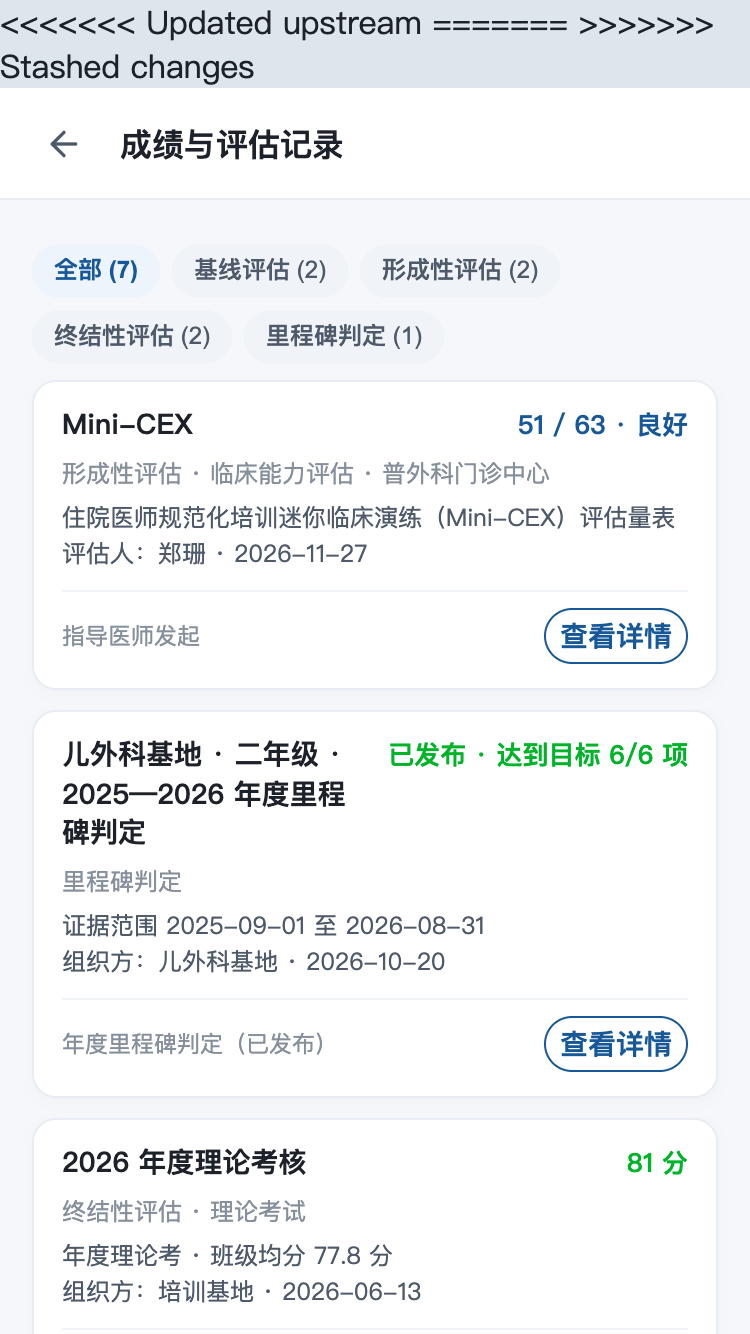
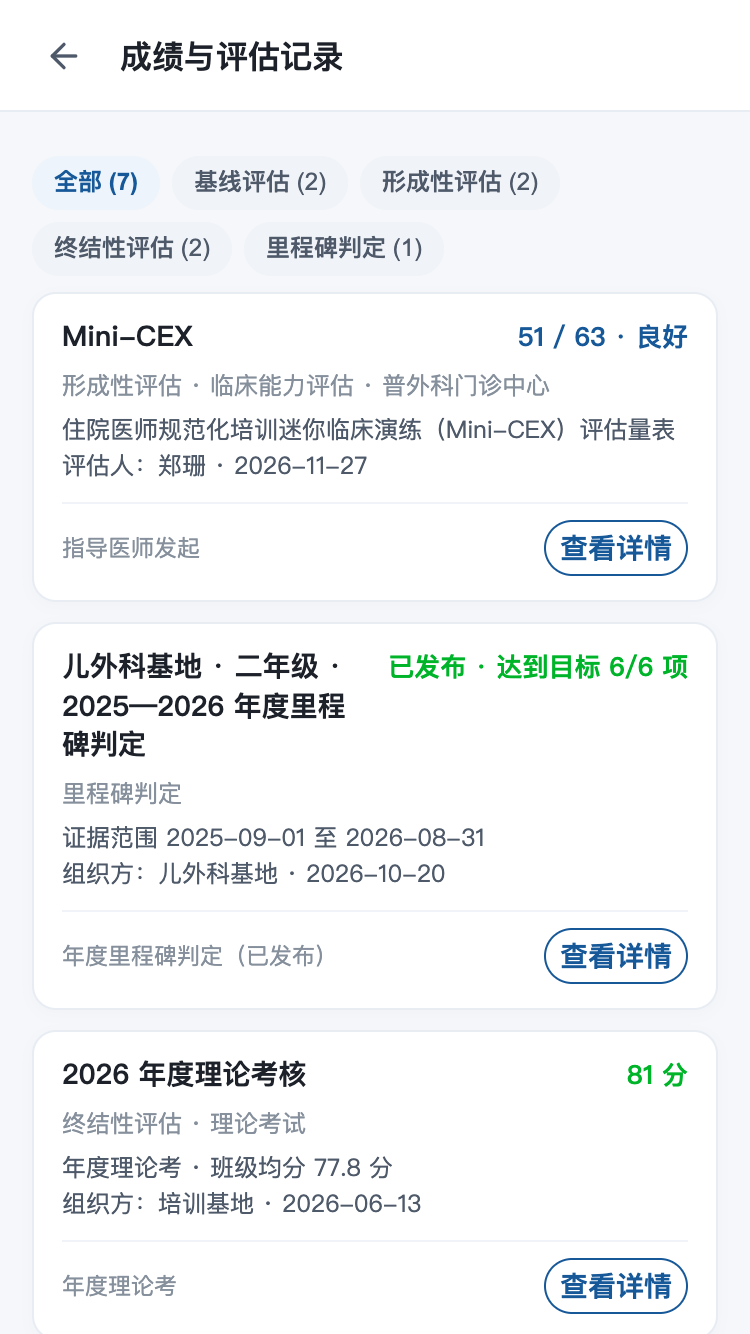
docs: 同步 2026-11-27 移动端学员端去KPI与教师端评估入口迁移留痕至专用库

diff --git a/修改前后对比-全量单文件汇总.html b/修改前后对比-全量单文件汇总.html
@@ -164,11 +164,11 @@ body.mode-stacked .pair-grid, body.mode-stacked .pair, body.mode-stacked .compar
       </div>
       <div class="m-card">
         <div class="m-label">全量修改与对比项</div>
-        <div class="m-val">87<span class="m-unit">项</span></div>
+        <div class="m-val">89<span class="m-unit">项</span></div>
       </div>
       <div class="m-card">
         <div class="m-label">对比留痕截图总数</div>
-        <div class="m-val">323<span class="m-unit">张</span></div>
+        <div class="m-val">328<span class="m-unit">张</span></div>
       </div>
       <div class="m-card">
         <div class="m-label">最新更新日期</div>
@@ -182,8 +182,8 @@ body.mode-stacked .pair-grid, body.mode-stacked .pair, body.mode-stacked .compar
   <div class="toolbar-inner">
     <div class="filter-group" id="dateFilters">
       <span class="filter-label">日期：</span>
-      <button class="chip active" data-date="all">全部日期 (87)</button>
-      <button class="chip" data-date="2026-11-27">2026-11-27 (最新 · 9项)</button>
+      <button class="chip active" data-date="all">全部日期 (89)</button>
+      <button class="chip" data-date="2026-11-27">2026-11-27 (最新 · 11项)</button>
       <button class="chip" data-date="2026-11-26">2026-11-26 (1项)</button>
       <button class="chip" data-date="2026-11-23">2026-11-23 (7项)</button>
       <button class="chip" data-date="2026-11-17">2026-11-17 (3项)</button>
@@ -208,12 +208,95 @@ body.mode-stacked .pair-grid, body.mode-stacked .pair, body.mode-stacked .compar
         <button class="view-btn active" id="btnSideBySide" title="左右并排对比">并排对比</button>
         <button class="view-btn" id="btnStacked" title="上下堆叠展示">单栏聚焦</button>
       </div>
-      <div class="stat-pill" id="counterPill">显示 87 / 87 项</div>
+      <div class="stat-pill" id="counterPill">显示 89 / 89 项</div>
     </div>
   </div>
 </div>
 
 <main id="mainContainer">
+
+<article class="item-card" id="2026-11-27-sec-11" data-date="2026-11-27" data-scope="移动端" data-search="移动端 教师端 评估任务 表单开发任务 委员会工作 全部服务 带教与评价 tdesign-app.js">
+  <div class="item-header">
+    <div class="item-title-wrap">
+      <div class="badge-row">
+        <span class="badge-num">#11</span>
+        <span class="badge-date">2026-11-27</span>
+        <span class="badge-scope">移动端</span>
+      </div>
+      <h2 class="item-title">11. 移动端教师端 ·「表单开发任务」与「委员会工作」迁入工作台全部服务（非委员隐藏）</h2>
+      <div class="item-meta"><strong>定位路径</strong>：<code>移动端/teacher-tdesign.html</code> → 底部「评估」Tab &amp; 首页「全部服务 › 带教与评价」<br>
+      <strong>核心文件</strong>：<code>移动端/shared/tdesign-app.js</code></div>
+    </div>
+  </div>
+  <div class="item-body">
+    <div class="pair-grid">
+      <div class="pair-col">
+        <div class="col-header"><span class="tag-badge before">修改前</span> 存在问题</div>
+        <ul class="desc-list">
+          <li>「评估」Tab 顶部堆叠「评估任务 / 表单开发任务 / 委员会工作」三段切换，与下方双 Tab 嵌套冗余。</li>
+        </ul>
+        <div class="img-wrap">
+          <img loading="lazy" src="2026-11-27-对比截图/移动端教师端-评估入口迁移-修改前.jpg" alt="移动端教师端-修改前" data-cap="2026-11-27 #11 修改前 · 评估 Tab 顶部分段栏">
+          <div class="img-caption"><span>修改前 · 评估 Tab 顶部三段切换</span><span>375×667</span></div>
+        </div>
+      </div>
+      <div class="pair-col">
+        <div class="col-header"><span class="tag-badge after">修改后</span> 改动亮点</div>
+        <ul class="desc-list">
+          <li>「评估」Tab 仅保留纯粹的「待我评估 / 待他人评估」任务列表。</li>
+          <li>「表单开发任务」「委员会工作」迁入「全部服务 › 带教与评价」独立二级页；非评估委员会成员直接隐藏「委员会工作」入口。</li>
+        </ul>
+        <div class="img-wrap">
+          <img loading="lazy" src="2026-11-27-对比截图/移动端教师端-评估Tab纯净态-修改后.png" alt="移动端教师端-评估Tab纯净态-修改后" data-cap="2026-11-27 #11 修改后 · 评估 Tab 纯净态">
+          <div class="img-caption"><span>修改后 · 评估 Tab 纯净态</span><span>375×667</span></div>
+        </div>
+        <div class="img-wrap">
+          <img loading="lazy" src="2026-11-27-对比截图/移动端教师端-工作台全部服务入口-修改后.png" alt="移动端教师端-工作台全部服务入口-修改后" data-cap="2026-11-27 #11 修改后 · 全部服务带教与评价入口">
+          <div class="img-caption"><span>修改后 · 全部服务 › 带教与评价入口</span><span>375×667</span></div>
+        </div>
+      </div>
+    </div>
+  </div>
+</article>
+
+<article class="item-card" id="2026-11-27-sec-10" data-date="2026-11-27" data-scope="移动端" data-search="移动端 学员端 成绩与评估记录 去KPI 冗余卡片 tdesign-app.js">
+  <div class="item-header">
+    <div class="item-title-wrap">
+      <div class="badge-row">
+        <span class="badge-num">#10</span>
+        <span class="badge-date">2026-11-27</span>
+        <span class="badge-scope">移动端</span>
+      </div>
+      <h2 class="item-title">10. 移动端学员端 ·「成绩与评估记录」移除顶部 3 张冗余汇总 KPI 卡</h2>
+      <div class="item-meta"><strong>定位路径</strong>：<code>移动端/student-tdesign.html</code> → 首页常用服务「成绩与评估记录」<br>
+      <strong>核心文件</strong>：<code>移动端/shared/tdesign-app.js</code></div>
+    </div>
+  </div>
+  <div class="item-body">
+    <div class="pair-grid">
+      <div class="pair-col">
+        <div class="col-header"><span class="tag-badge before">修改前</span> 存在问题</div>
+        <ul class="desc-list">
+          <li>顶部 3 张 KPI 卡与下方 5 阶段计数胶囊信息重复，挤压首屏记录列表。</li>
+        </ul>
+        <div class="img-wrap">
+          <img loading="lazy" src="2026-11-27-对比截图/移动端学员端-成绩与评估记录去KPI-修改前.jpg" alt="移动端学员端-成绩与评估记录去KPI-修改前" data-cap="2026-11-27 #10 修改前 · 顶部红框 3 张冗余 KPI 卡">
+          <div class="img-caption"><span>修改前 · 顶部 3 张冗余汇总卡</span><span>375×667</span></div>
+        </div>
+      </div>
+      <div class="pair-col">
+        <div class="col-header"><span class="tag-badge after">修改后</span> 改动亮点</div>
+        <ul class="desc-list">
+          <li>删除顶部 <code>.stu-record-kpis</code>，由 5 阶段计数胶囊直接衔接评估记录卡片。</li>
+        </ul>
+        <div class="img-wrap">
+          <img loading="lazy" src="2026-11-27-对比截图/移动端学员端-成绩与评估记录去KPI-修改后.png" alt="移动端学员端-成绩与评估记录去KPI-修改后" data-cap="2026-11-27 #10 修改后 · 移除冗余 KPI 卡">
+          <div class="img-caption"><span>修改后 · 精简首屏结构</span><span>375×667</span></div>
+        </div>
+      </div>
+    </div>
+  </div>
+</article>
 
 <article class="item-card" id="2026-11-27-sec-09" data-date="2026-11-27" data-scope="PC端" data-search="电子班牌 最终稿 本周课表 抽屉 流体玻璃 3D头像 极简克制 医院深蓝 呼吸灯 闪白 需求规格说明">
   <div class="item-head"><span class="date-badge">2026-11-27</span><span class="scope-tag">PC端</span><h3>电子班牌最终稿 · 「本周课表」抽屉极简流体玻璃 + 3D 头像视觉升级</h3></div>

diff --git a/修改前后对比.html b/修改前后对比.html
@@ -164,11 +164,11 @@ body.mode-stacked .pair-grid, body.mode-stacked .pair, body.mode-stacked .compar
       </div>
       <div class="m-card">
         <div class="m-label">全量修改与对比项</div>
-        <div class="m-val">87<span class="m-unit">项</span></div>
+        <div class="m-val">89<span class="m-unit">项</span></div>
       </div>
       <div class="m-card">
         <div class="m-label">对比留痕截图总数</div>
-        <div class="m-val">323<span class="m-unit">张</span></div>
+        <div class="m-val">328<span class="m-unit">张</span></div>
       </div>
       <div class="m-card">
         <div class="m-label">最新更新日期</div>
@@ -182,8 +182,8 @@ body.mode-stacked .pair-grid, body.mode-stacked .pair, body.mode-stacked .compar
   <div class="toolbar-inner">
     <div class="filter-group" id="dateFilters">
       <span class="filter-label">日期：</span>
-      <button class="chip active" data-date="all">全部日期 (87)</button>
-      <button class="chip" data-date="2026-11-27">2026-11-27 (最新 · 9项)</button>
+      <button class="chip active" data-date="all">全部日期 (89)</button>
+      <button class="chip" data-date="2026-11-27">2026-11-27 (最新 · 11项)</button>
       <button class="chip" data-date="2026-11-26">2026-11-26 (1项)</button>
       <button class="chip" data-date="2026-11-23">2026-11-23 (7项)</button>
       <button class="chip" data-date="2026-11-17">2026-11-17 (3项)</button>
@@ -208,12 +208,95 @@ body.mode-stacked .pair-grid, body.mode-stacked .pair, body.mode-stacked .compar
         <button class="view-btn active" id="btnSideBySide" title="左右并排对比">并排对比</button>
         <button class="view-btn" id="btnStacked" title="上下堆叠展示">单栏聚焦</button>
       </div>
-      <div class="stat-pill" id="counterPill">显示 87 / 87 项</div>
+      <div class="stat-pill" id="counterPill">显示 89 / 89 项</div>
     </div>
   </div>
 </div>
 
 <main id="mainContainer">
+
+<article class="item-card" id="2026-11-27-sec-11" data-date="2026-11-27" data-scope="移动端" data-search="移动端 教师端 评估任务 表单开发任务 委员会工作 全部服务 带教与评价 tdesign-app.js">
+  <div class="item-header">
+    <div class="item-title-wrap">
+      <div class="badge-row">
+        <span class="badge-num">#11</span>
+        <span class="badge-date">2026-11-27</span>
+        <span class="badge-scope">移动端</span>
+      </div>
+      <h2 class="item-title">11. 移动端教师端 ·「表单开发任务」与「委员会工作」迁入工作台全部服务（非委员隐藏）</h2>
+      <div class="item-meta"><strong>定位路径</strong>：<code>移动端/teacher-tdesign.html</code> → 底部「评估」Tab &amp; 首页「全部服务 › 带教与评价」<br>
+      <strong>核心文件</strong>：<code>移动端/shared/tdesign-app.js</code></div>
+    </div>
+  </div>
+  <div class="item-body">
+    <div class="pair-grid">
+      <div class="pair-col">
+        <div class="col-header"><span class="tag-badge before">修改前</span> 存在问题</div>
+        <ul class="desc-list">
+          <li>「评估」Tab 顶部堆叠「评估任务 / 表单开发任务 / 委员会工作」三段切换，与下方双 Tab 嵌套冗余。</li>
+        </ul>
+        <div class="img-wrap">
+          <img loading="lazy" src="2026-11-27-对比截图/移动端教师端-评估入口迁移-修改前.jpg" alt="移动端教师端-修改前" data-cap="2026-11-27 #11 修改前 · 评估 Tab 顶部分段栏">
+          <div class="img-caption"><span>修改前 · 评估 Tab 顶部三段切换</span><span>375×667</span></div>
+        </div>
+      </div>
+      <div class="pair-col">
+        <div class="col-header"><span class="tag-badge after">修改后</span> 改动亮点</div>
+        <ul class="desc-list">
+          <li>「评估」Tab 仅保留纯粹的「待我评估 / 待他人评估」任务列表。</li>
+          <li>「表单开发任务」「委员会工作」迁入「全部服务 › 带教与评价」独立二级页；非评估委员会成员直接隐藏「委员会工作」入口。</li>
+        </ul>
+        <div class="img-wrap">
+          <img loading="lazy" src="2026-11-27-对比截图/移动端教师端-评估Tab纯净态-修改后.png" alt="移动端教师端-评估Tab纯净态-修改后" data-cap="2026-11-27 #11 修改后 · 评估 Tab 纯净态">
+          <div class="img-caption"><span>修改后 · 评估 Tab 纯净态</span><span>375×667</span></div>
+        </div>
+        <div class="img-wrap">
+          <img loading="lazy" src="2026-11-27-对比截图/移动端教师端-工作台全部服务入口-修改后.png" alt="移动端教师端-工作台全部服务入口-修改后" data-cap="2026-11-27 #11 修改后 · 全部服务带教与评价入口">
+          <div class="img-caption"><span>修改后 · 全部服务 › 带教与评价入口</span><span>375×667</span></div>
+        </div>
+      </div>
+    </div>
+  </div>
+</article>
+
+<article class="item-card" id="2026-11-27-sec-10" data-date="2026-11-27" data-scope="移动端" data-search="移动端 学员端 成绩与评估记录 去KPI 冗余卡片 tdesign-app.js">
+  <div class="item-header">
+    <div class="item-title-wrap">
+      <div class="badge-row">
+        <span class="badge-num">#10</span>
+        <span class="badge-date">2026-11-27</span>
+        <span class="badge-scope">移动端</span>
+      </div>
+      <h2 class="item-title">10. 移动端学员端 ·「成绩与评估记录」移除顶部 3 张冗余汇总 KPI 卡</h2>
+      <div class="item-meta"><strong>定位路径</strong>：<code>移动端/student-tdesign.html</code> → 首页常用服务「成绩与评估记录」<br>
+      <strong>核心文件</strong>：<code>移动端/shared/tdesign-app.js</code></div>
+    </div>
+  </div>
+  <div class="item-body">
+    <div class="pair-grid">
+      <div class="pair-col">
+        <div class="col-header"><span class="tag-badge before">修改前</span> 存在问题</div>
+        <ul class="desc-list">
+          <li>顶部 3 张 KPI 卡与下方 5 阶段计数胶囊信息重复，挤压首屏记录列表。</li>
+        </ul>
+        <div class="img-wrap">
+          <img loading="lazy" src="2026-11-27-对比截图/移动端学员端-成绩与评估记录去KPI-修改前.jpg" alt="移动端学员端-成绩与评估记录去KPI-修改前" data-cap="2026-11-27 #10 修改前 · 顶部红框 3 张冗余 KPI 卡">
+          <div class="img-caption"><span>修改前 · 顶部 3 张冗余汇总卡</span><span>375×667</span></div>
+        </div>
+      </div>
+      <div class="pair-col">
+        <div class="col-header"><span class="tag-badge after">修改后</span> 改动亮点</div>
+        <ul class="desc-list">
+          <li>删除顶部 <code>.stu-record-kpis</code>，由 5 阶段计数胶囊直接衔接评估记录卡片。</li>
+        </ul>
+        <div class="img-wrap">
+          <img loading="lazy" src="2026-11-27-对比截图/移动端学员端-成绩与评估记录去KPI-修改后.png" alt="移动端学员端-成绩与评估记录去KPI-修改后" data-cap="2026-11-27 #10 修改后 · 移除冗余 KPI 卡">
+          <div class="img-caption"><span>修改后 · 精简首屏结构</span><span>375×667</span></div>
+        </div>
+      </div>
+    </div>
+  </div>
+</article>
 
 <article class="item-card" id="2026-11-27-sec-09" data-date="2026-11-27" data-scope="PC端" data-search="电子班牌 最终稿 本周课表 抽屉 流体玻璃 3D头像 极简克制 医院深蓝 呼吸灯 闪白 需求规格说明">
   <div class="item-head"><span class="date-badge">2026-11-27</span><span class="scope-tag">PC端</span><h3>电子班牌最终稿 · 「本周课表」抽屉极简流体玻璃 + 3D 头像视觉升级</h3></div>

diff --git a/2026-11-27-修改前后对比.html b/2026-11-27-修改前后对比.html
@@ -44,7 +44,7 @@
 <header>
   <div style="margin-bottom:8px"><a href="index.html" style="color:#d0e7ff;font-size:13px;text-decoration:none;display:inline-flex;align-items:center;gap:4px">← 返回留痕总览（所有日期清单）</a></div>
   <h1>2026-11-27 · 修改前后对比</h1>
-  <div class="sub">共 <span id="index-total-count">8</span> 项修改记录 · 31 张真实入口截图 · PC 端 1440×900 / 移动端 375×812 · 点击顶部总清单锚点快速跳转至对应详情</div>
+  <div class="sub">共 <span id="index-total-count">11</span> 项修改记录 · 39 张真实入口截图 · PC 端 1440×900 / 移动端 375×812 · 点击顶部总清单锚点快速跳转至对应详情</div>
 </header>
 <main>
   <section id="change-index">
@@ -135,6 +135,20 @@
           <td><span class="scope-tag">PC端</span></td>
           <td>15.6" 电子班牌（<code>pages/电子班牌/index.html</code> → 本周课表上拉抽屉）</td>
           <td><a href="../../pages/电子班牌/index.html">index.html</a> + <a href="../../pages/电子班牌/电子班牌-需求规格说明.md">需求规格说明.md</a> · 图文对比（3 张）</td>
+        </tr>
+        <tr data-scope="移动端">
+          <td>10</td>
+          <td><a href="#sec-10"><strong>移动端学员端 ·「成绩与评估记录」移除顶部 3 张冗余汇总 KPI 卡</strong></a></td>
+          <td><span class="scope-tag">移动端</span></td>
+          <td><code>移动端/student-tdesign.html</code> → 首页常用服务「成绩与评估记录」</td>
+          <td><a href="../../移动端/shared/tdesign-app.js">tdesign-app.js</a> · 图文对比（2 张）</td>
+        </tr>
+        <tr data-scope="移动端">
+          <td>11</td>
+          <td><a href="#sec-11"><strong>移动端教师端 ·「表单开发任务」与「委员会工作」迁入工作台全部服务（非委员隐藏）</strong></a></td>
+          <td><span class="scope-tag">移动端</span></td>
+          <td><code>移动端/teacher-tdesign.html</code> → 底部「评估」Tab & 首页「全部服务 › 带教与评价」</td>
+          <td><a href="../../移动端/shared/tdesign-app.js">tdesign-app.js</a> · 图文对比（3 张）</td>
         </tr>
       </tbody>
     </table>
@@ -453,6 +467,58 @@
         </ul>
         <a href="2026-11-27-对比截图/电子班牌-周课表抽屉-修改后.png" target="_blank"><img alt="修改后：极昼浅色流体玻璃周课表抽屉与3D医生头像" src="2026-11-27-对比截图/电子班牌-周课表抽屉-修改后.png"></a>
         <a href="2026-11-27-对比截图/电子班牌-周课表抽屉-医院深蓝-修改后.png" target="_blank" style="display:block;margin-top:12px;"><img alt="修改后：复旦医院深蓝主题下的周课表抽屉" src="2026-11-27-对比截图/电子班牌-周课表抽屉-医院深蓝-修改后.png"></a>
+      </div>
+    </div>
+  </section>
+
+  <section id="sec-10">
+    <h2>移动端学员端 ·「成绩与评估记录」移除顶部 3 张冗余汇总 KPI 卡</h2>
+    <p>定位：<code>移动端/student-tdesign.html</code> → 首页常用服务「成绩与评估记录」。修改文件：<a href="../../移动端/shared/tdesign-app.js">移动端/shared/tdesign-app.js</a>。</p>
+    <div class="pair">
+      <div>
+        <h3>修改前 · 存在问题</h3>
+        <ul>
+          <li><strong>数字信息重复</strong>：页面顶部展示「7 全部结果 / 4 基线与形成性 / 3 终结与里程碑」3 张 KPI 卡片，与下方紧邻的「全部(7) / 基线评估(2) / 形成性评估(2) / 终结性评估(2) / 里程碑判定(1)」计数胶囊完全重复，挤压首屏列表展示空间。</li>
+        </ul>
+        <a href="2026-11-27-对比截图/移动端学员端-成绩与评估记录去KPI-修改前.jpg" target="_blank"><img alt="修改前：成绩与评估记录顶部红框 3 张 KPI 卡" src="2026-11-27-对比截图/移动端学员端-成绩与评估记录去KPI-修改前.jpg"></a>
+      </div>
+      <div>
+        <h3>修改后 · 改动说明</h3>
+        <ul>
+          <li><strong>精简首屏结构</strong>：移除顶部 <code>.stu-record-kpis</code> 三卡区块，进入二级页后直接由 5 阶段计数胶囊衔接评估记录卡片，首屏多出完整一张成绩卡可视区。</li>
+        </ul>
+        <a href="2026-11-27-对比截图/移动端学员端-成绩与评估记录去KPI-修改后.png" target="_blank"><img class="mobile-shot" alt="修改后：成绩与评估记录去除冗余 KPI 卡" src="2026-11-27-对比截图/移动端学员端-成绩与评估记录去KPI-修改后.png"></a>
+      </div>
+    </div>
+  </section>
+
+  <section id="sec-11">
+    <h2>移动端教师端 ·「表单开发任务」与「委员会工作」迁入工作台全部服务（非委员隐藏）</h2>
+    <p>定位：<code>移动端/teacher-tdesign.html</code> → 底部「评估」Tab &amp; 首页「全部服务 › 带教与评价」。修改文件：<a href="../../移动端/shared/tdesign-app.js">移动端/shared/tdesign-app.js</a>。</p>
+    <div class="pair">
+      <div>
+        <h3>修改前 · 存在问题</h3>
+        <ul>
+          <li><strong>评估 Tab 顶栏过重</strong>：「评估」Tab 顶部堆叠「评估任务 / 表单开发任务 / 委员会工作」三段切换，与下方「待我评估 / 待他人评估」双层页签嵌套，视觉冗余。</li>
+        </ul>
+        <a href="2026-11-27-对比截图/移动端教师端-评估入口迁移-修改前.jpg" target="_blank"><img class="mobile-shot" alt="修改前：教师端评估 Tab 顶部分段栏" src="2026-11-27-对比截图/移动端教师端-评估入口迁移-修改前.jpg"></a>
+      </div>
+      <div>
+        <h3>修改后 · 改动说明</h3>
+        <ul>
+          <li><strong>评估 Tab 纯净回归</strong>：移除顶部三段切换，「评估」Tab 只保留纯粹的「待我评估 / 待他人评估」与状态筛选。</li>
+          <li><strong>全部服务承接与权限隐藏</strong>：将「表单开发任务」「委员会工作」直接排入工作台「全部服务 › 带教与评价」并打开独立二级页；当教师非评估委员会成员（<code>isCommitteeMember = false</code>）时，直接隐藏「委员会工作」入口。</li>
+        </ul>
+        <div class="mobile-grid">
+          <div>
+            <h4>改后 · 评估 Tab 纯净态</h4>
+            <a href="2026-11-27-对比截图/移动端教师端-评估Tab纯净态-修改后.png" target="_blank"><img alt="修改后：教师端评估 Tab 纯净态" src="2026-11-27-对比截图/移动端教师端-评估Tab纯净态-修改后.png"></a>
+          </div>
+          <div>
+            <h4>改后 · 全部服务 › 带教与评价入口</h4>
+            <a href="2026-11-27-对比截图/移动端教师端-工作台全部服务入口-修改后.png" target="_blank"><img alt="修改后：教师端全部服务新增表单开发任务与委员会工作" src="2026-11-27-对比截图/移动端教师端-工作台全部服务入口-修改后.png"></a>
+          </div>
+        </div>
       </div>
     </div>
   </section>

diff --git a/index.html b/index.html
@@ -135,7 +135,7 @@
       </div>
       <div class="metric-card" style="background:#ffffff;border:none;box-shadow:0 4px 12px rgba(0,0,0,0.12)">
         <div class="metric-label" style="color:#175898;font-weight:600">⚡ 全量聚合模式</div>
-        <a href="修改前后对比.html" style="color:#175898;font-weight:700;text-decoration:none;font-size:14px;display:inline-flex;align-items:center;gap:4px;margin-top:2px">打开单文件全量对比 (87项/323图) →</a>
+        <a href="修改前后对比.html" style="color:#175898;font-weight:700;text-decoration:none;font-size:14px;display:inline-flex;align-items:center;gap:4px;margin-top:2px">打开单文件全量对比 (89项/328图) →</a>
       </div>
     </div>
   </div>
@@ -147,7 +147,7 @@
     <div class="filter-group" id="date-filter-group">
       <span style="font-size:13px;color:var(--color-text-secondary);font-weight:500;margin-right:4px">日期快速切换：</span>
       <button type="button" class="filter-chip active" data-date="all">全部日期（10 天）</button>
-      <button type="button" class="filter-chip" data-date="2026-11-27">2026-11-27（最新 · 9 项）</button>
+      <button type="button" class="filter-chip" data-date="2026-11-27">2026-11-27（最新 · 11 项）</button>
       <button type="button" class="filter-chip" data-date="2026-11-26">2026-11-26（1 项）</button>
       <button type="button" class="filter-chip" data-date="2026-11-23">2026-11-23（7 项）</button>
       <button type="button" class="filter-chip" data-date="2026-11-18">2026-11-18（1 项）</button>
@@ -176,7 +176,7 @@
         </div>
         <div class="day-actions">
           <a class="btn-primary" href="2026-11-27-修改前后对比.html">查看 11-27 留痕详情 →</a>
-          <span class="stat-summary">8 项修改 · 31 张截图</span>
+          <span class="stat-summary">11 项修改 · 39 张截图</span>
         </div>
       </div>
       <div class="items-overview">
@@ -220,6 +220,16 @@
             <span class="item-num">08</span>
             <span class="item-name">PC 端工作台 · 教师/学员新增「师资申请」抽屉与「添加常用」真实勾选弹窗</span>
             <span class="item-badge">PC端</span>
+          </a>
+          <a class="item-link" href="2026-11-27-修改前后对比.html#sec-10">
+            <span class="item-num">10</span>
+            <span class="item-name">移动端学员端 ·「成绩与评估记录」移除顶部 3 张冗余汇总 KPI 卡</span>
+            <span class="item-badge">移动端</span>
+          </a>
+          <a class="item-link" href="2026-11-27-修改前后对比.html#sec-11">
+            <span class="item-num">11</span>
+            <span class="item-name">移动端教师端 ·「表单开发任务」与「委员会工作」迁入工作台全部服务</span>
+            <span class="item-badge">移动端</span>
           </a>
         </div>
       </div>
